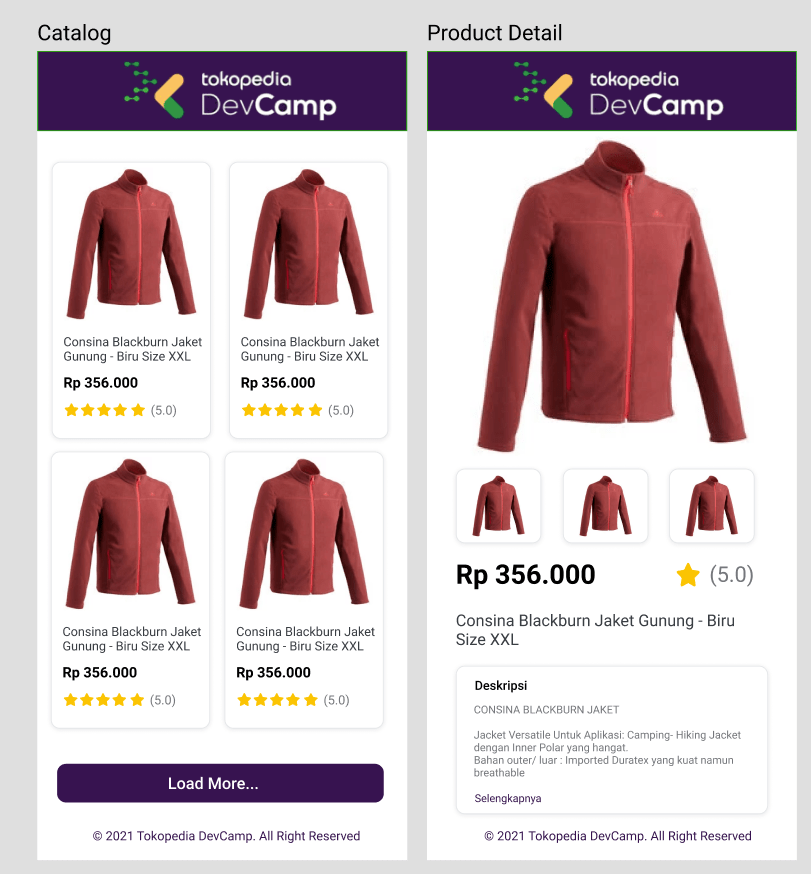
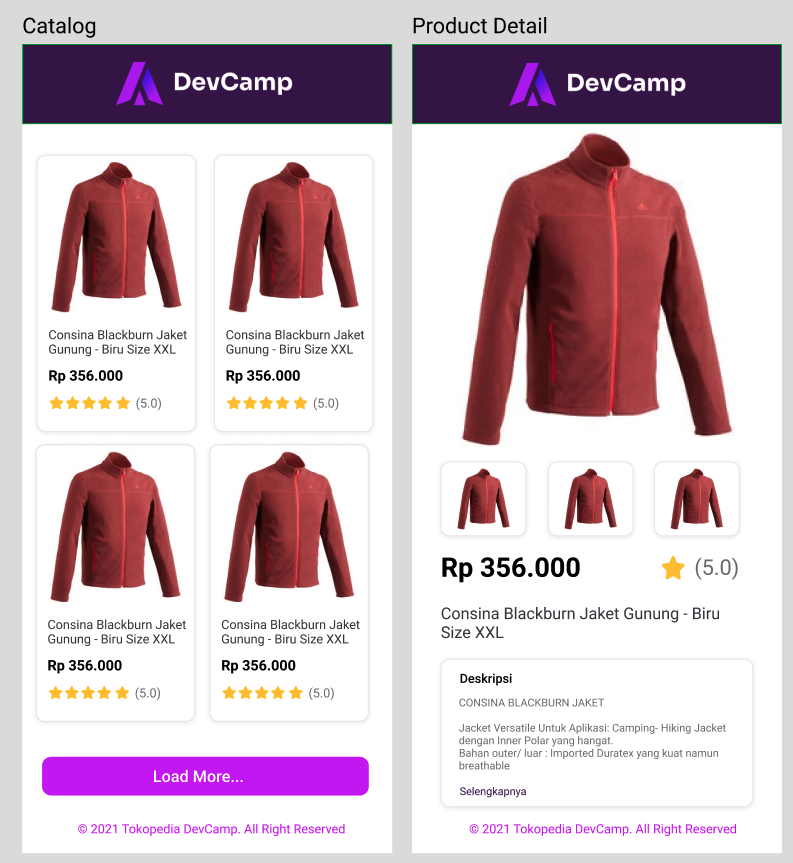
feat: basic ui layout

diff --git a/src/server.js b/src/server.js
@@ -7,17 +7,23 @@ import { renderToString } from 'react-dom/server';
 const assets = require(process.env.RAZZLE_ASSETS_MANIFEST);
 
 const cssLinksFromAssets = (assets, entrypoint) => {
-  return assets[entrypoint] ? assets[entrypoint].css ?
-  assets[entrypoint].css.map(asset=>
-    `<link rel="stylesheet" href="${asset}">`
-  ).join('') : '' : '';
+  return assets[entrypoint]
+    ? assets[entrypoint].css
+      ? assets[entrypoint].css
+          .map((asset) => `<link rel="stylesheet" href="${asset}">`)
+          .join('')
+      : ''
+    : '';
 };
 
 const jsScriptTagsFromAssets = (assets, entrypoint, extra = '') => {
-  return assets[entrypoint] ? assets[entrypoint].js ?
-  assets[entrypoint].js.map(asset=>
-    `<script src="${asset}"${extra}></script>`
-  ).join('') : '' : '';
+  return assets[entrypoint]
+    ? assets[entrypoint].js
+      ? assets[entrypoint].js
+          .map((asset) => `<script src="${asset}"${extra}></script>`)
+          .join('')
+      : ''
+    : '';
 };
 
 const server = express();
@@ -37,11 +43,11 @@ server
     } else {
       res.status(200).send(
         `<!doctype html>
-    <html lang="">
+  <html lang="">
     <head>
         <meta http-equiv="X-UA-Compatible" content="IE=edge" />
         <meta charset="utf-8" />
-        <title>Welcome to Razzle</title>
+        <title>Tokopedia DevCamp 2021</title>
         <meta name="viewport" content="width=device-width, initial-scale=1">
         ${cssLinksFromAssets(assets, 'client')}
     </head>
@@ -49,7 +55,7 @@ server
         <div id="root">${markup}</div>
         ${jsScriptTagsFromAssets(assets, 'client', ' defer crossorigin')}
     </body>
-</html>`
+	</html>`
       );
     }
   });

diff --git a/src/App.js b/src/App.js
@@ -1,12 +1,27 @@
 import React from 'react';
 import { Route, Switch } from 'react-router-dom';
-import Home from './Home';
+
+import ErrorBoundary from './components/ErrorBoundary';
+import Layout from './components/Layout';
+
+import Home from './pages/Home';
+import ProductDetail from './pages/ProductDetail';
+
 import './App.css';
 
 const App = () => (
-  <Switch>
-    <Route exact path="/" component={Home} />
-  </Switch>
+  <ErrorBoundary>
+    <Layout>
+      <Switch>
+        <Route exact path="/" component={Home} />
+        <Route
+          exact
+          path="/product/:id"
+          render={({ match }) => <ProductDetail match={match} />}
+        />
+      </Switch>
+    </Layout>
+  </ErrorBoundary>
 );
 
 export default App;

diff --git a/src/components/ErrorBoundary/index.js b/src/components/ErrorBoundary/index.js
@@ -1,0 +1,27 @@
+class ErrorBoundary extends React.Component {
+  constructor(props) {
+    super(props);
+    this.state = { hasError: false };
+  }
+
+  static getDerivedStateFromError(error) {
+    // Update state so the next render will show the fallback UI.
+    return { hasError: true };
+  }
+
+  componentDidCatch(error, errorInfo) {
+    // You can also log the error to an error reporting service
+    console.error(error, errorInfo);
+  }
+
+  render() {
+    if (this.state.hasError) {
+      // You can render any custom fallback UI
+      return <h1>Something went wrong.</h1>;
+    }
+
+    return this.props.children;
+  }
+}
+
+export default ErrorBoundary

diff --git a/src/App.css b/src/App.css
@@ -1,5 +1,23 @@
+html {
+  font-family: "Source Sans Pro", -apple-system, BlinkMacSystemFont, "Segoe UI",
+    Roboto, "Helvetica Neue", Arial, sans-serif;
+  font-size: 16px;
+  word-spacing: 1px;
+  -ms-text-size-adjust: 100%;
+  -webkit-text-size-adjust: 100%;
+  -moz-osx-font-smoothing: grayscale;
+  -webkit-font-smoothing: antialiased;
+  box-sizing: border-box;
+}
+
+*,
+*::before,
+*::after {
+  box-sizing: border-box;
+  margin: 0;
+}
+
 body {
   margin: 0;
   padding: 0;
-  font-family: sans-serif;
 }

diff --git a/src/components/Footer/index.js b/src/components/Footer/index.js
@@ -1,0 +1,24 @@
+import './styles.css';
+
+function Footer() {
+  return (
+    <footer className="Footer">
+      <span>
+        © 2021{' '}
+        <a
+          href="https://academy.tokopedia.com/events/dev-camp"
+          target="_blank"
+          rel="noopener noreferrer"
+          className="Footer-link"
+        >
+          Tokopedia DevCamp
+        </a>
+        .
+      </span>
+      <br />
+      <span>All Right Reserved</span>
+    </footer>
+  );
+}
+
+export default Footer;

diff --git a/src/pages/ProductDetail/index.js b/src/pages/ProductDetail/index.js
@@ -1,0 +1,14 @@
+import React from 'react';
+import './styles.css';
+
+function ProductDetail({ match }) {
+  return (
+    <div className="ProductDetail">
+      <div className="ProductDetail-header">
+        <h2>Welcome to Product Detail: {match.params.id}</h2>
+      </div>
+    </div>
+  );
+}
+
+export default ProductDetail;

diff --git a/src/components/Layout/index.js b/src/components/Layout/index.js
@@ -1,0 +1,16 @@
+import Header from '../Header';
+import Footer from '../Footer';
+
+import './styles.css';
+
+function Layout({ children }) {
+  return (
+    <div className="Layout">
+      <Header />
+      <main className="Layout-main">{children}</main>
+      <Footer />
+    </div>
+  );
+}
+
+export default Layout;

diff --git a/src/pages/Home/index.js b/src/pages/Home/index.js
@@ -1,0 +1,16 @@
+import React from 'react';
+import './styles.css';
+
+class Home extends React.Component {
+  render() {
+    return (
+      <div className="Home">
+        <div className="Home-header">
+          <h2>Welcome to Razzle</h2>
+        </div>
+      </div>
+    );
+  }
+}
+
+export default Home;

diff --git a/src/components/Header/index.js b/src/components/Header/index.js
@@ -1,0 +1,11 @@
+import './styles.css';
+
+function Header() {
+  return (
+    <header className="Header">
+      <img className="Header-logo" src="/logo-devcamp-2021.png" alt="Tokopedia DevCamp 2021" />
+    </header>
+  );
+}
+
+export default Header;

diff --git a/src/components/Header/styles.css b/src/components/Header/styles.css
@@ -1,0 +1,13 @@
+.Header {
+	background-color: #371351;
+	color: #FFFF;
+	display: flex;
+	align-items: center;
+	justify-content: center;
+	padding: 10px;
+}
+
+.Header-logo{
+	height: 40px;
+	width: auto;
+}

diff --git a/src/components/Footer/styles.css b/src/components/Footer/styles.css
@@ -1,0 +1,10 @@
+.Footer {
+	color: #BF13F8;
+	font-size: .9rem;
+	text-align: center;
+	padding: 2rem 1rem;
+}
+
+.Footer-link {
+	color: #BF13F8;
+}

diff --git a/src/pages/ProductDetail/styles.css b/src/pages/ProductDetail/styles.css
@@ -1,0 +1,9 @@
+.ProductDetail {
+  text-align: center;
+}
+
+.ProductDetail-header {
+  height: 150px;
+  padding: 20px;
+  color: #222;
+}
